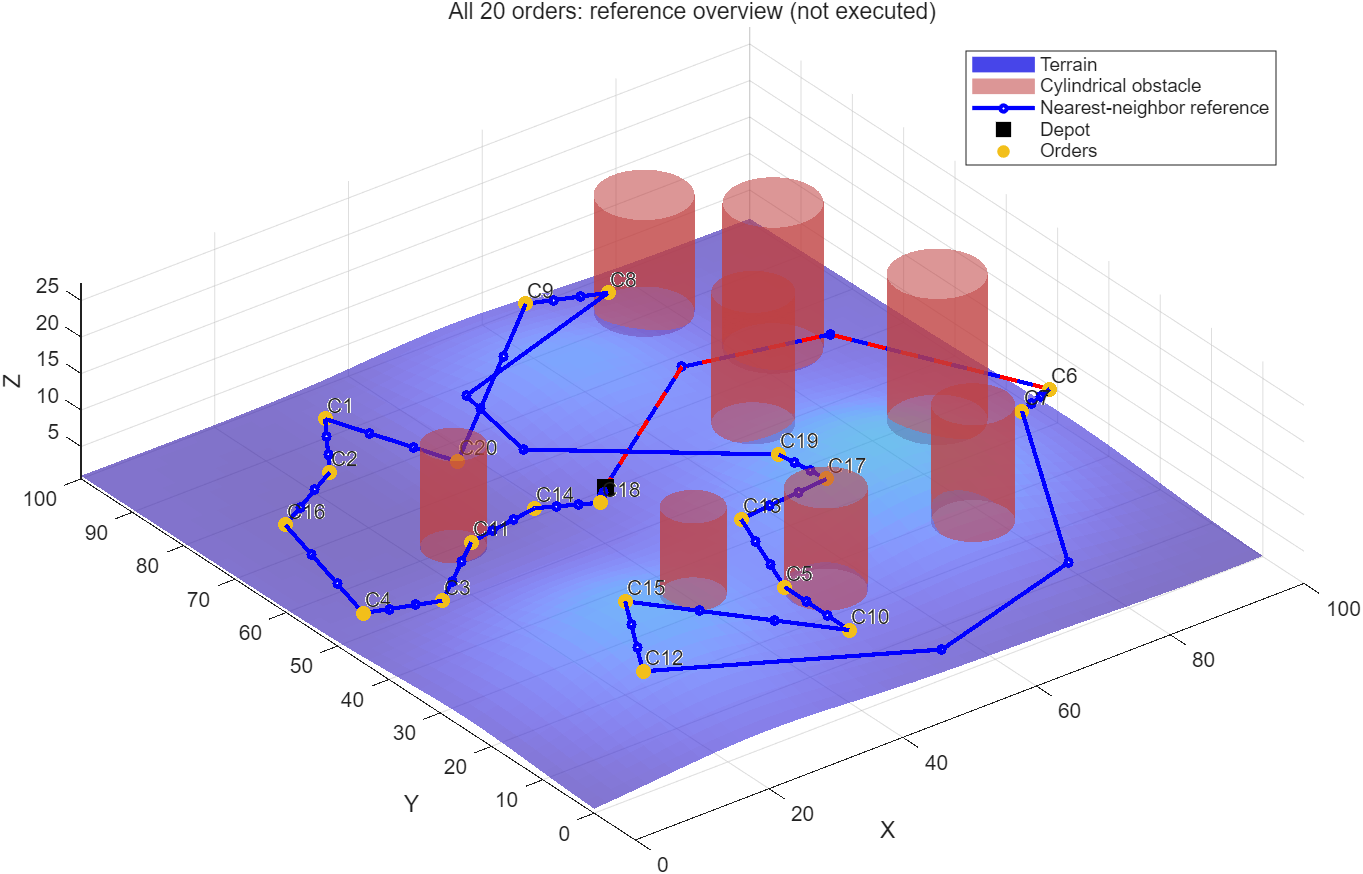
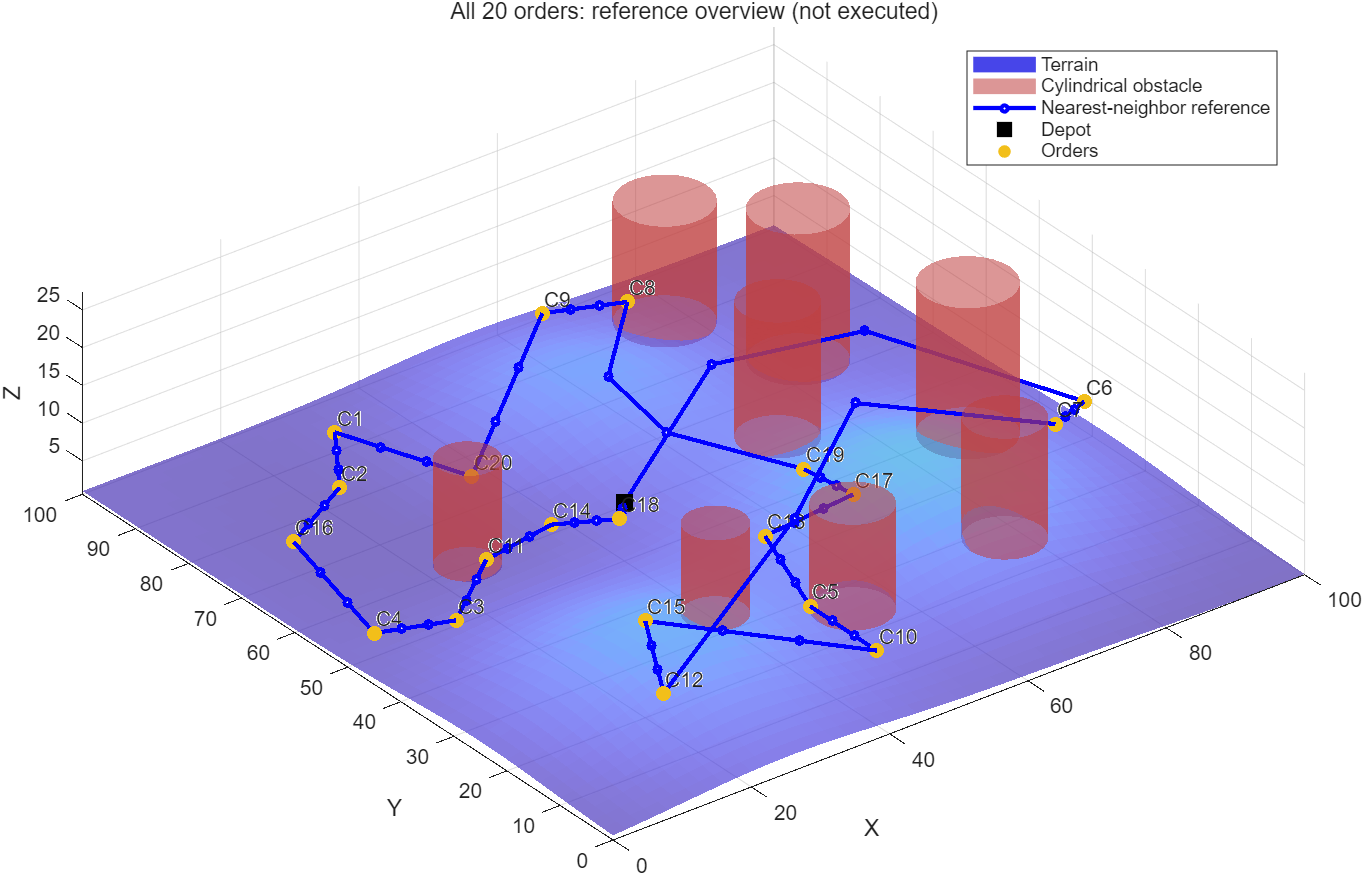
Improve local control-point initialization

diff --git a/InitialControlPoints.m b/InitialControlPoints.m
@@ -1,110 +1,53 @@
 function control = InitialControlPoints(route,model,startPoint)
-%INITIALCONTROLPOINTS Create local side/height initial control offsets.
+%INITIALCONTROLPOINTS Initialize local d/h offsets using the same Fitness.
 
-nLegs = length(route)+1;
 K = model.nControlPoints;
-control = zeros(nLegs,K,2);
+control = zeros(length(route)+1,K,2);
 current = startPoint;
-
-for i = 1:nLegs
-    if i <= length(route)
-        target = model.orders(route(i)).xyz;
+for leg = 1:length(route)+1
+    if leg<=length(route)
+        target = model.orders(route(leg)).xyz;
     else
         target = model.depot;
     end
 
-    blocked = BlockedObstacles(current,target,model);
-    if ~isempty(blocked)
-        move = target(1:2)-current(1:2);
-        horizontal = norm(move);
-        if horizontal < eps
-            side = [1 0];
-        else
-            side = [-move(2) move(1)]/horizontal;
+    % An empty route evaluates just this leg, with its endpoint as the depot.
+    legModel = model;
+    legModel.depot = target;
+    legState.time = 0;
+    legState.position = current;
+    legState.direction = [];
+    best = zeros(1,K,2);
+    [bestCost,detail] = Fitness([],best,legModel,legState);
+    bestKey = [~detail.feasible,bestCost];
+
+    % Keep a safe direct leg. Otherwise compare a small d/h candidate set.
+    if ~detail.feasible
+        move = target-current;
+        horizontal = norm(move(1:2));
+        offsets = model.maxSideOffset*[0 1/3 -1/3 2/3 -2/3 1 -1];
+        for first = offsets
+            for last = offsets
+                d = linspace(first,last,K);
+                % A common height respects both endpoint ramp lengths.
+                ramp = hypot(horizontal/(K+1),[d(1) d(end)]);
+                height = min(model.maxHeightOffset,max(0, ...
+                    min(tand(model.maxClimbAngle)*ramp)-abs(move(3))/(K+1)));
+                for h = height*[0 0.25 0.5 0.75 1]
+                    candidate = zeros(1,K,2);
+                    candidate(:,:,1) = d;
+                    candidate(:,:,2) = h;
+                    [cost,detail] = Fitness([],candidate,legModel,legState);
+                    key = [~detail.feasible,cost];
+                    if key(1)<bestKey(1) || (key(1)==bestKey(1) && key(2)<bestKey(2))
+                        best = candidate;
+                        bestKey = key;
+                    end
+                end
+            end
         end
-        centers = [[model.obstacles(blocked).x]' ...
-            [model.obstacles(blocked).y]'];
-        radius = [model.obstacles(blocked).r]' ...
-            + model.obstacleSafety + 3;
-        across = (centers-current(1:2))*side';
-        offset = min(model.maxSideOffset,max(abs(across)+radius)+10);
-        control(i,:,1) = offset;
-        pointsA = OffsetPoints(current,target,squeeze(control(i,:,:)),model);
-        control(i,:,1) = -offset;
-        pointsB = OffsetPoints(current,target,squeeze(control(i,:,:)),model);
-        if ObstacleViolation(pointsA,model) <= ...
-                ObstacleViolation(pointsB,model)
-            control(i,:,1) = offset;
-        end
-        control(i,:,2) = 0;
-    elseif TerrainBlocked(current,target,model)
-        control(i,:,2) = min(model.maxHeightOffset, ...
-            max(model.terrainZ(:))+model.minClearance+1 ...
-            - mean([current(3),target(3)]));
     end
+    control(leg,:,:) = best;
     current = target;
 end
 end
-
-function ids = BlockedObstacles(from,to,model)
-t = linspace(0,1,30)';
-samples = from+t.*(to-from);
-ids = [];
-for j = 1:length(model.obstacles)
-    obs = model.obstacles(j);
-    insideXY = hypot(samples(:,1)-obs.x,samples(:,2)-obs.y) ...
-        <= obs.r+model.obstacleSafety;
-    insideZ = samples(:,3)>=obs.zMin-model.obstacleSafety ...
-        & samples(:,3)<=obs.zMax+model.obstacleSafety;
-    if any(insideXY & insideZ)
-        ids(end+1) = j;
-    end
-end
-end
-
-
-
-function points = OffsetPoints(from,to,row,model)
-move = to-from;
-horizontal = norm(move(1:2));
-if horizontal < eps
-    side = [1 0];
-else
-    side = [-move(2) move(1)]/horizontal;
-end
-points = zeros(size(row,1)+2,3);
-points(1,:) = from;
-points(end,:) = to;
-for k = 1:size(row,1)
-    base = from+k/(size(row,1)+1)*move;
-    points(k+1,:) = base;
-    points(k+1,1:2) = base(1:2)+row(k,1)*side;
-    points(k+1,3) = base(3)+row(k,2);
-end
-end
-
-function value = ObstacleViolation(points,model)
-value = 0;
-for i = 1:size(points,1)-1
-    t = linspace(0,1,30)';
-    samples = points(i,:)+t.*(points(i+1,:)-points(i,:));
-    for j = 1:length(model.obstacles)
-        obs = model.obstacles(j);
-        insideXY = hypot(samples(:,1)-obs.x,samples(:,2)-obs.y) ...
-            <= obs.r+model.obstacleSafety;
-        insideZ = samples(:,3)>=obs.zMin-model.obstacleSafety ...
-            & samples(:,3)<=obs.zMax+model.obstacleSafety;
-        amount = max(0,obs.zMax+model.obstacleSafety-samples(:,3));
-        value = value+sum(amount(insideXY & insideZ));
-    end
-end
-end
-
-function yes = TerrainBlocked(from,to,model)
-t = linspace(0,1,30)';
-samples = from+t.*(to-from);
-ground = interp2(model.X,model.Y,model.terrainZ, ...
-    samples(:,1),samples(:,2),'linear');
-yes = any(samples(:,3)-ground < model.minClearance);
-end
-

diff --git a/Fitness.m b/Fitness.m
@@ -3,7 +3,6 @@ function [cost,detail] = Fitness(route,control,model,state)
 
 current = state.position;
 currentTime = state.time;
-direction = state.direction;
 totalDistance = 0;
 totalLate = 0;
 totalWaiting = 0;
@@ -13,14 +12,14 @@ maxClimbAngle = 0;
 maxTurnAngle = 0;
 terrainViolation = 0;
 obstacleViolation = 0;
+mapViolation = 0;
 allPoints = current;
 paths = DecodeControlPoints(route,control,model,current);
 records = zeros(length(route),5);
 
 for k = 1:length(route)
     id = route(k);
-    target = model.orders(id).xyz;
-    path = EvaluatePolyline(paths{k},model,direction);
+    path = EvaluatePolyline(paths{k},model);
     travelTime = path.distance/model.speed;
     arrival = currentTime + travelTime;
     wait = max(0,model.orders(id).ready-arrival);
@@ -36,20 +35,20 @@ for k = 1:length(route)
     totalLate = totalLate + late;
     terrainViolation = terrainViolation + path.terrainViolation;
     obstacleViolation = obstacleViolation + path.obstacleViolation;
+    mapViolation = mapViolation + path.mapViolation;
     records(k,:) = [id arrival serviceStart late wait];
     paths{k} = path;
 
     currentTime = serviceStart + model.orders(id).service;
-    current = target;
-    direction = [];
     allPoints = [allPoints;path.points(2:end,:)];
 end
 
-path = EvaluatePolyline(paths{end},model,direction);
+path = EvaluatePolyline(paths{end},model);
 paths{end} = path;
 totalDistance = totalDistance + path.distance;
 terrainViolation = terrainViolation + path.terrainViolation;
 obstacleViolation = obstacleViolation + path.obstacleViolation;
+mapViolation = mapViolation + path.mapViolation;
 totalAngleViolation = totalAngleViolation + path.angleViolation;
 totalSmoothness = totalSmoothness + path.smoothness;
 maxClimbAngle = max(maxClimbAngle,path.maxClimbAngle);
@@ -72,6 +71,10 @@ if obstacleViolation > 1e-8
     cost = cost + 100000 + 10000*obstacleViolation;
 end
 
+if mapViolation > 1e-8
+    cost = cost + 100000 + 10000*mapViolation;
+end
+
 detail.route = route;
 detail.control = control;
 detail.records = records;
@@ -86,13 +89,15 @@ detail.maxClimbAngle = maxClimbAngle;
 detail.maxTurnAngle = maxTurnAngle;
 detail.terrainViolation = terrainViolation;
 detail.obstacleViolation = obstacleViolation;
+detail.mapViolation = mapViolation;
 detail.feasible = terrainViolation < 1e-8 ...
     && obstacleViolation < 1e-8 ...
-    && totalAngleViolation < 1e-8 && totalLate < 1e-8;
+    && totalAngleViolation < 1e-8 && totalLate < 1e-8 ...
+    && mapViolation < 1e-8;
 detail.finishTime = currentTime + path.distance/model.speed;
 end
 
-function result = EvaluatePolyline(points,model,initialDirection)
+function result = EvaluatePolyline(points,model)
 segments = diff(points,1,1);
 horizontal = vecnorm(segments(:,1:2),2,2);
 pitch = atan2d(segments(:,3),horizontal);
@@ -100,24 +105,21 @@ turn = zeros(max(0,size(segments,1)-1),1);
 for i = 1:length(turn)
     turn(i) = TurnAngle(segments(i,:),segments(i+1,:));
 end
-if ~isempty(initialDirection) && ~isempty(segments)
-    turn = [TurnAngle(initialDirection,segments(1,:));turn];
-    pitchHistory = [atan2d(initialDirection(3),norm(initialDirection(1:2)));pitch];
-else
-    pitchHistory = pitch;
-end
 angleViolation = sum(max(0,abs(pitch)-model.maxClimbAngle)) ...
     + sum(max(0,turn-model.maxTurnAngle));
 smoothness = sum((turn/model.maxTurnAngle).^2) ...
-    + sum((diff(pitchHistory)/model.maxClimbAngle).^2);
+    + sum((diff(pitch)/model.maxClimbAngle).^2);
 
 terrainViolation = 0;
 obstacleViolation = 0;
+mapViolation = sum(sum(max(0,-points(:,1:2)) ...
+    + max(0,points(:,1:2)-model.mapSize)));
 for i = 1:size(segments,1)
     t = linspace(0,1,model.safetySamples)';
     samples = points(i,:)+t.*segments(i,:);
+    xy = max(0,min(model.mapSize,samples(:,1:2)));
     ground = interp2(model.X,model.Y,model.terrainZ, ...
-        samples(:,1),samples(:,2),'linear');
+        xy(:,1),xy(:,2),'linear');
     terrainViolation = terrainViolation ...
         + mean(max(0,model.minClearance-(samples(:,3)-ground)));
     for j = 1:length(model.obstacles)
@@ -137,7 +139,8 @@ result.distance = sum(vecnorm(segments,2,2));
 result.terrainViolation = terrainViolation;
 result.obstacleViolation = obstacleViolation;
 result.angleViolation = angleViolation;
-result.totalViolation = terrainViolation+obstacleViolation+angleViolation;
+result.mapViolation = mapViolation;
+result.totalViolation = terrainViolation+obstacleViolation+angleViolation+mapViolation;
 result.maxClimbAngle = max([0;abs(pitch)]);
 result.maxTurnAngle = max([0;turn]);
 result.smoothness = smoothness;

diff --git a/PSO.m b/PSO.m
@@ -3,7 +3,6 @@ function [BestSol,BestCost] = PSO(model,state,maxgen,Particle_Number,seed)
 
 rng(seed);
 nVar = length(state.activeIDs);
-K = model.nControlPoints;
 pRandom = 0.5;
 pPbest = 0.5;
 pGbest = 0.8;
@@ -35,7 +34,6 @@ for i = 1:Particle_Number
     end
     particle(i).Velocity = randn(size(particle(i).Control));
     particle(i).Velocity(:,:,1) = 2*particle(i).Velocity(:,:,1);
-    particle(i).Velocity(:,:,2) = particle(i).Velocity(:,:,2);
     [particle(i).Cost,particle(i).Detail] = Fitness( ...
         particle(i).Route,particle(i).Control,model,state);
 
